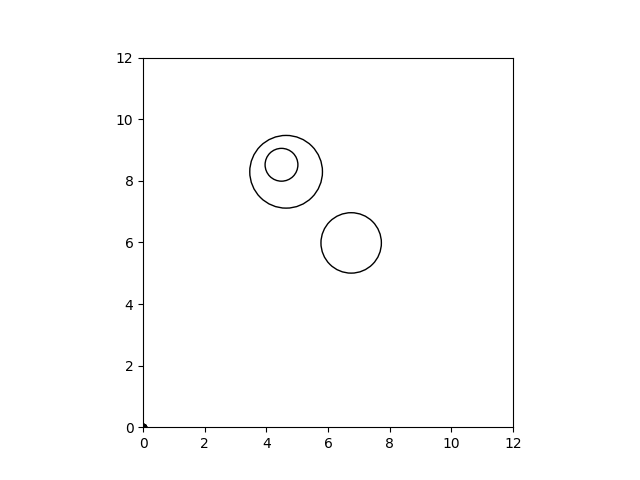
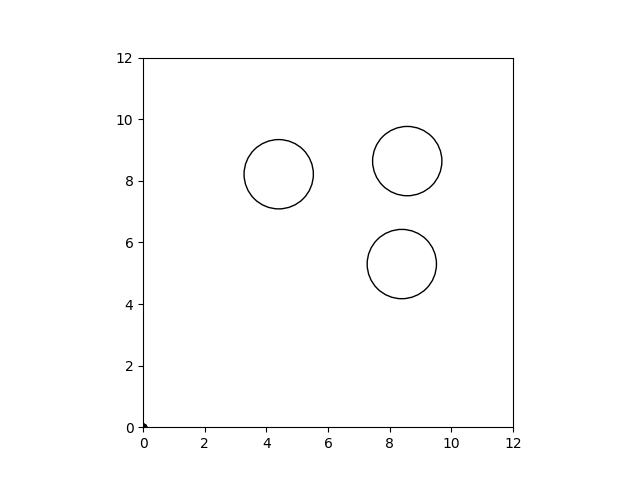
rewrite image3 with more points

diff --git a/iterate.py b/iterate.py
@@ -9,7 +9,7 @@ def followsRules(circles, points):
 	# format of circles: [[x, y, rad], ]
 	# format of points: [[x, y], ]
 
-	edgelim = 1 # distance to edge [in]
+	edgelim = 0.75 # distance to edge [in]
 	interlim = 1.5 # distance from element to element [in]
 
 	if points is None:
@@ -40,6 +40,12 @@ def followsRules(circles, points):
 				if incircle(point, circle):
 					out = False
 #					print("Point in circle")
+					break
+
+				dist = (((point[0] - circle[0])**2) + ((point[1] - circle[1])**2))**(1/2) - circle[2]
+				if dist < interlim:
+					out = False
+					print("Point too close to circle")
 					break
 
 	for circle in circles:
@@ -119,7 +125,7 @@ def getqx(pos):
 
 iterations = 1000
 numcircles = 3
-numdots = 6
+numdots = 8
 
 circles = np.zeros((numcircles, 3))
 dots = np.zeros((numdots, 2))
@@ -133,7 +139,7 @@ tracker = 1
 while (count < numcircles) and (tracker < iterations): # time out if over some max # of iterations
 	print(tracker)
 	# generate circle
-	rad = np.random.uniform(0.5,1.5) # random circle radius
+	rad = 2.25/2
 	x = np.random.uniform(3,9)
 	y = np.random.uniform(3,9)
 
